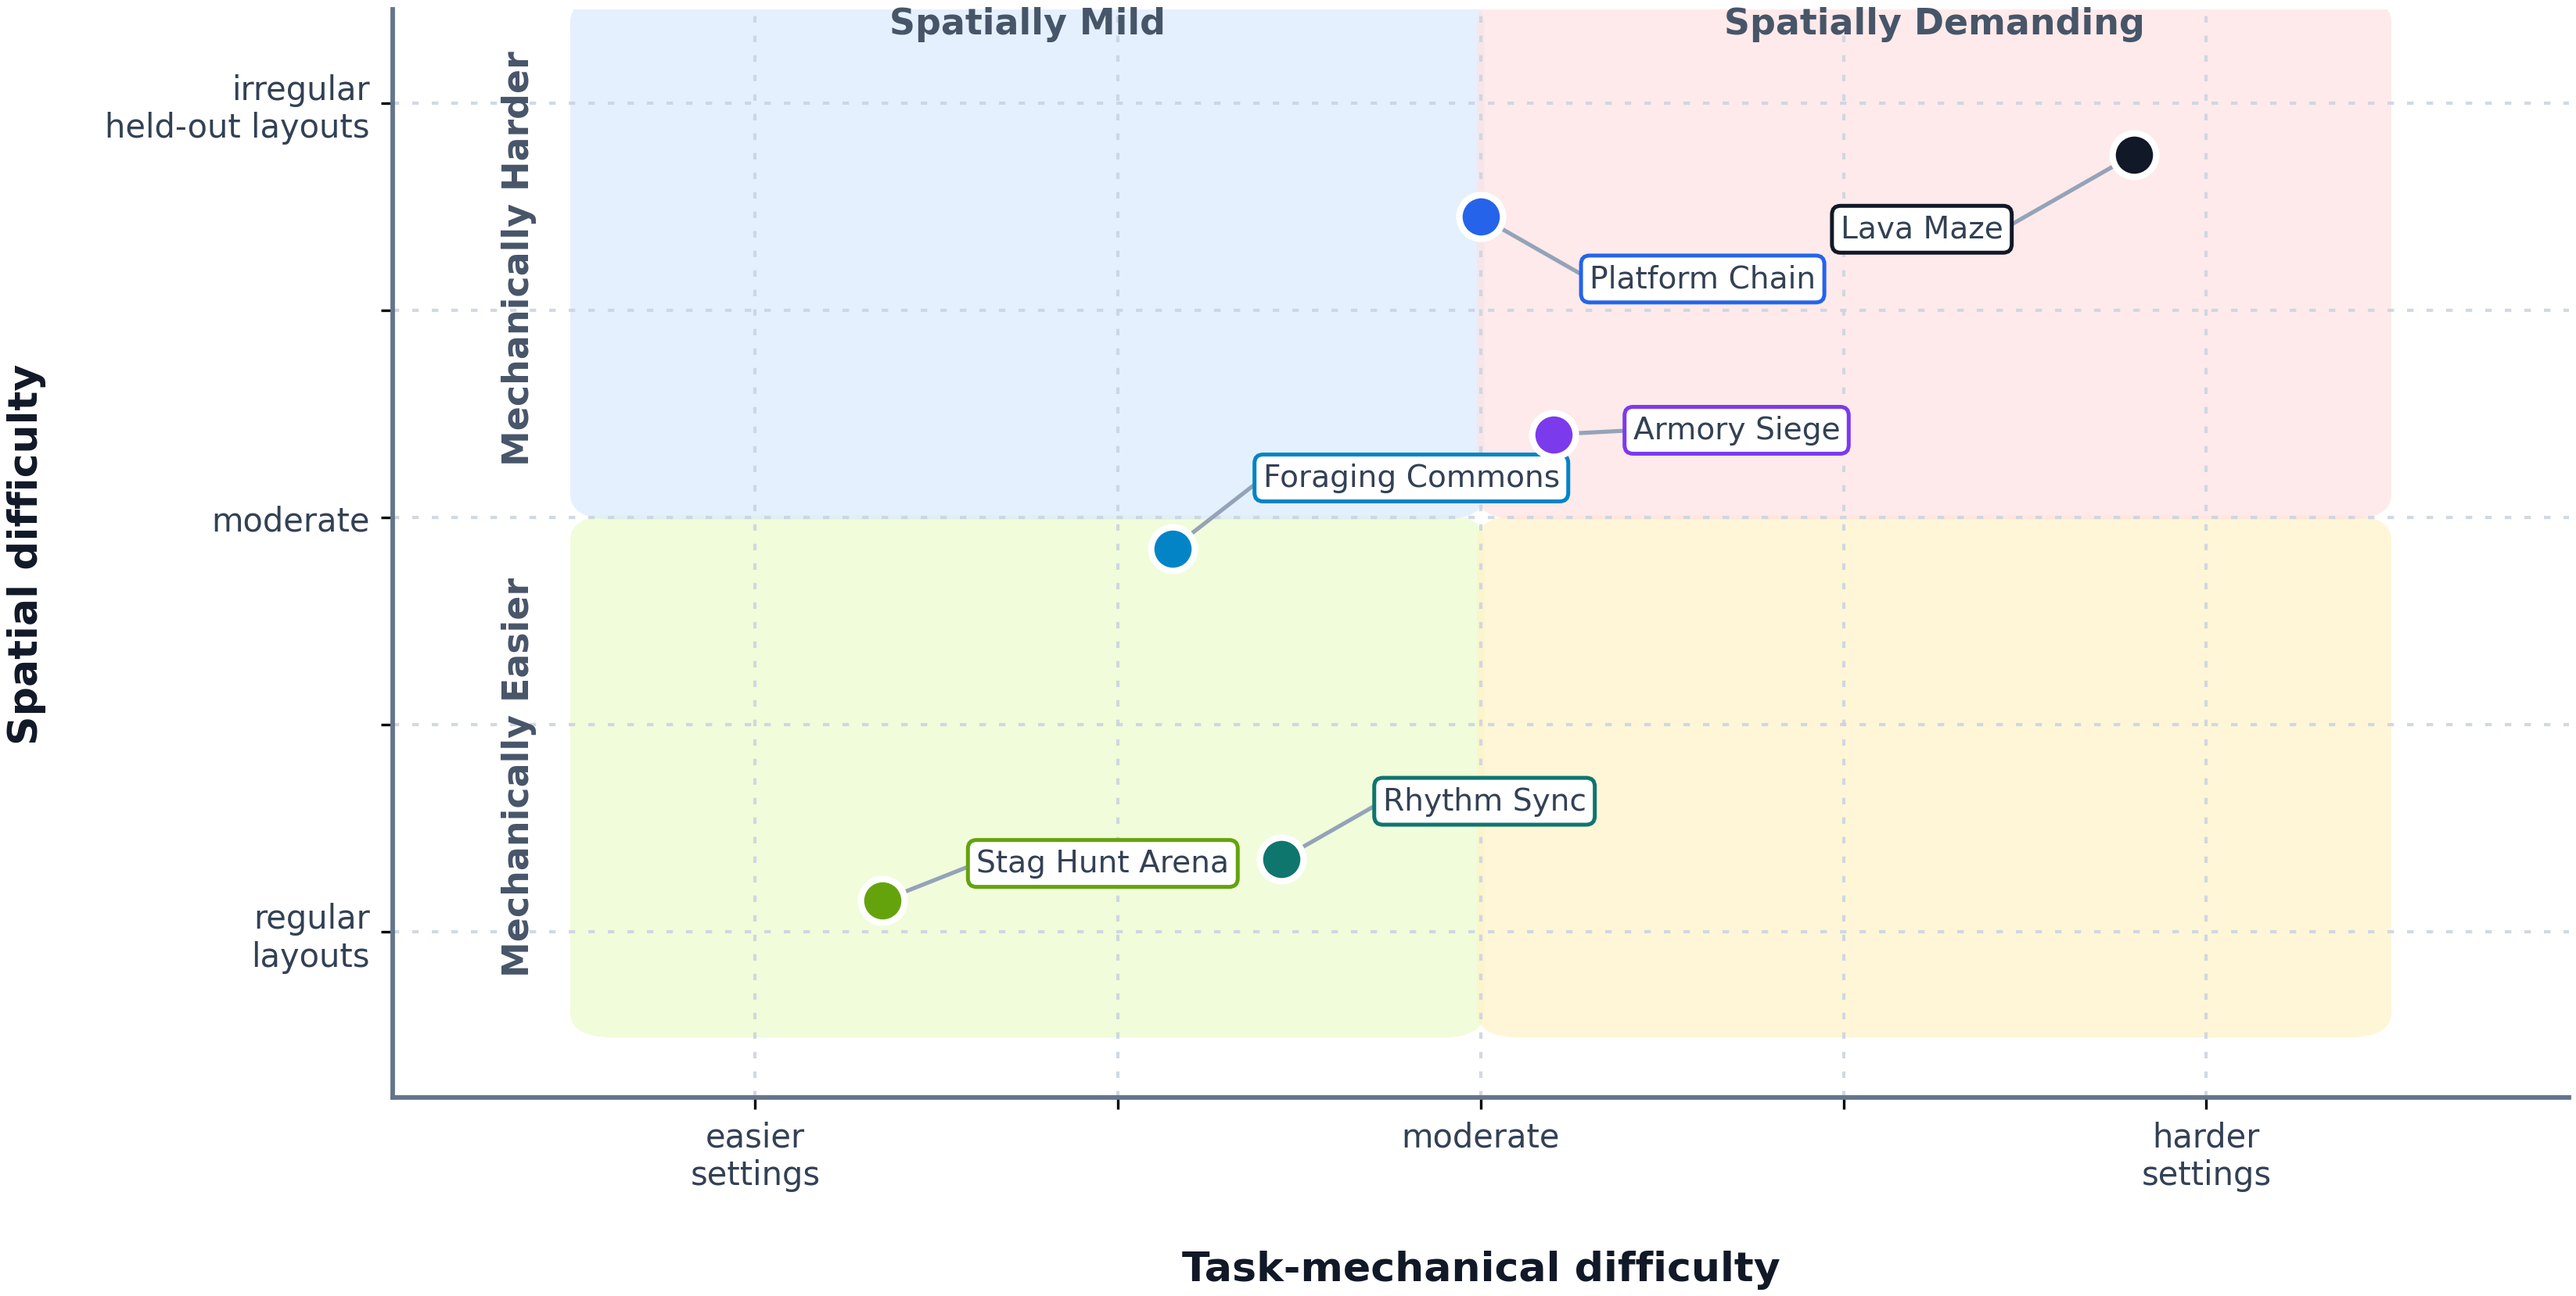
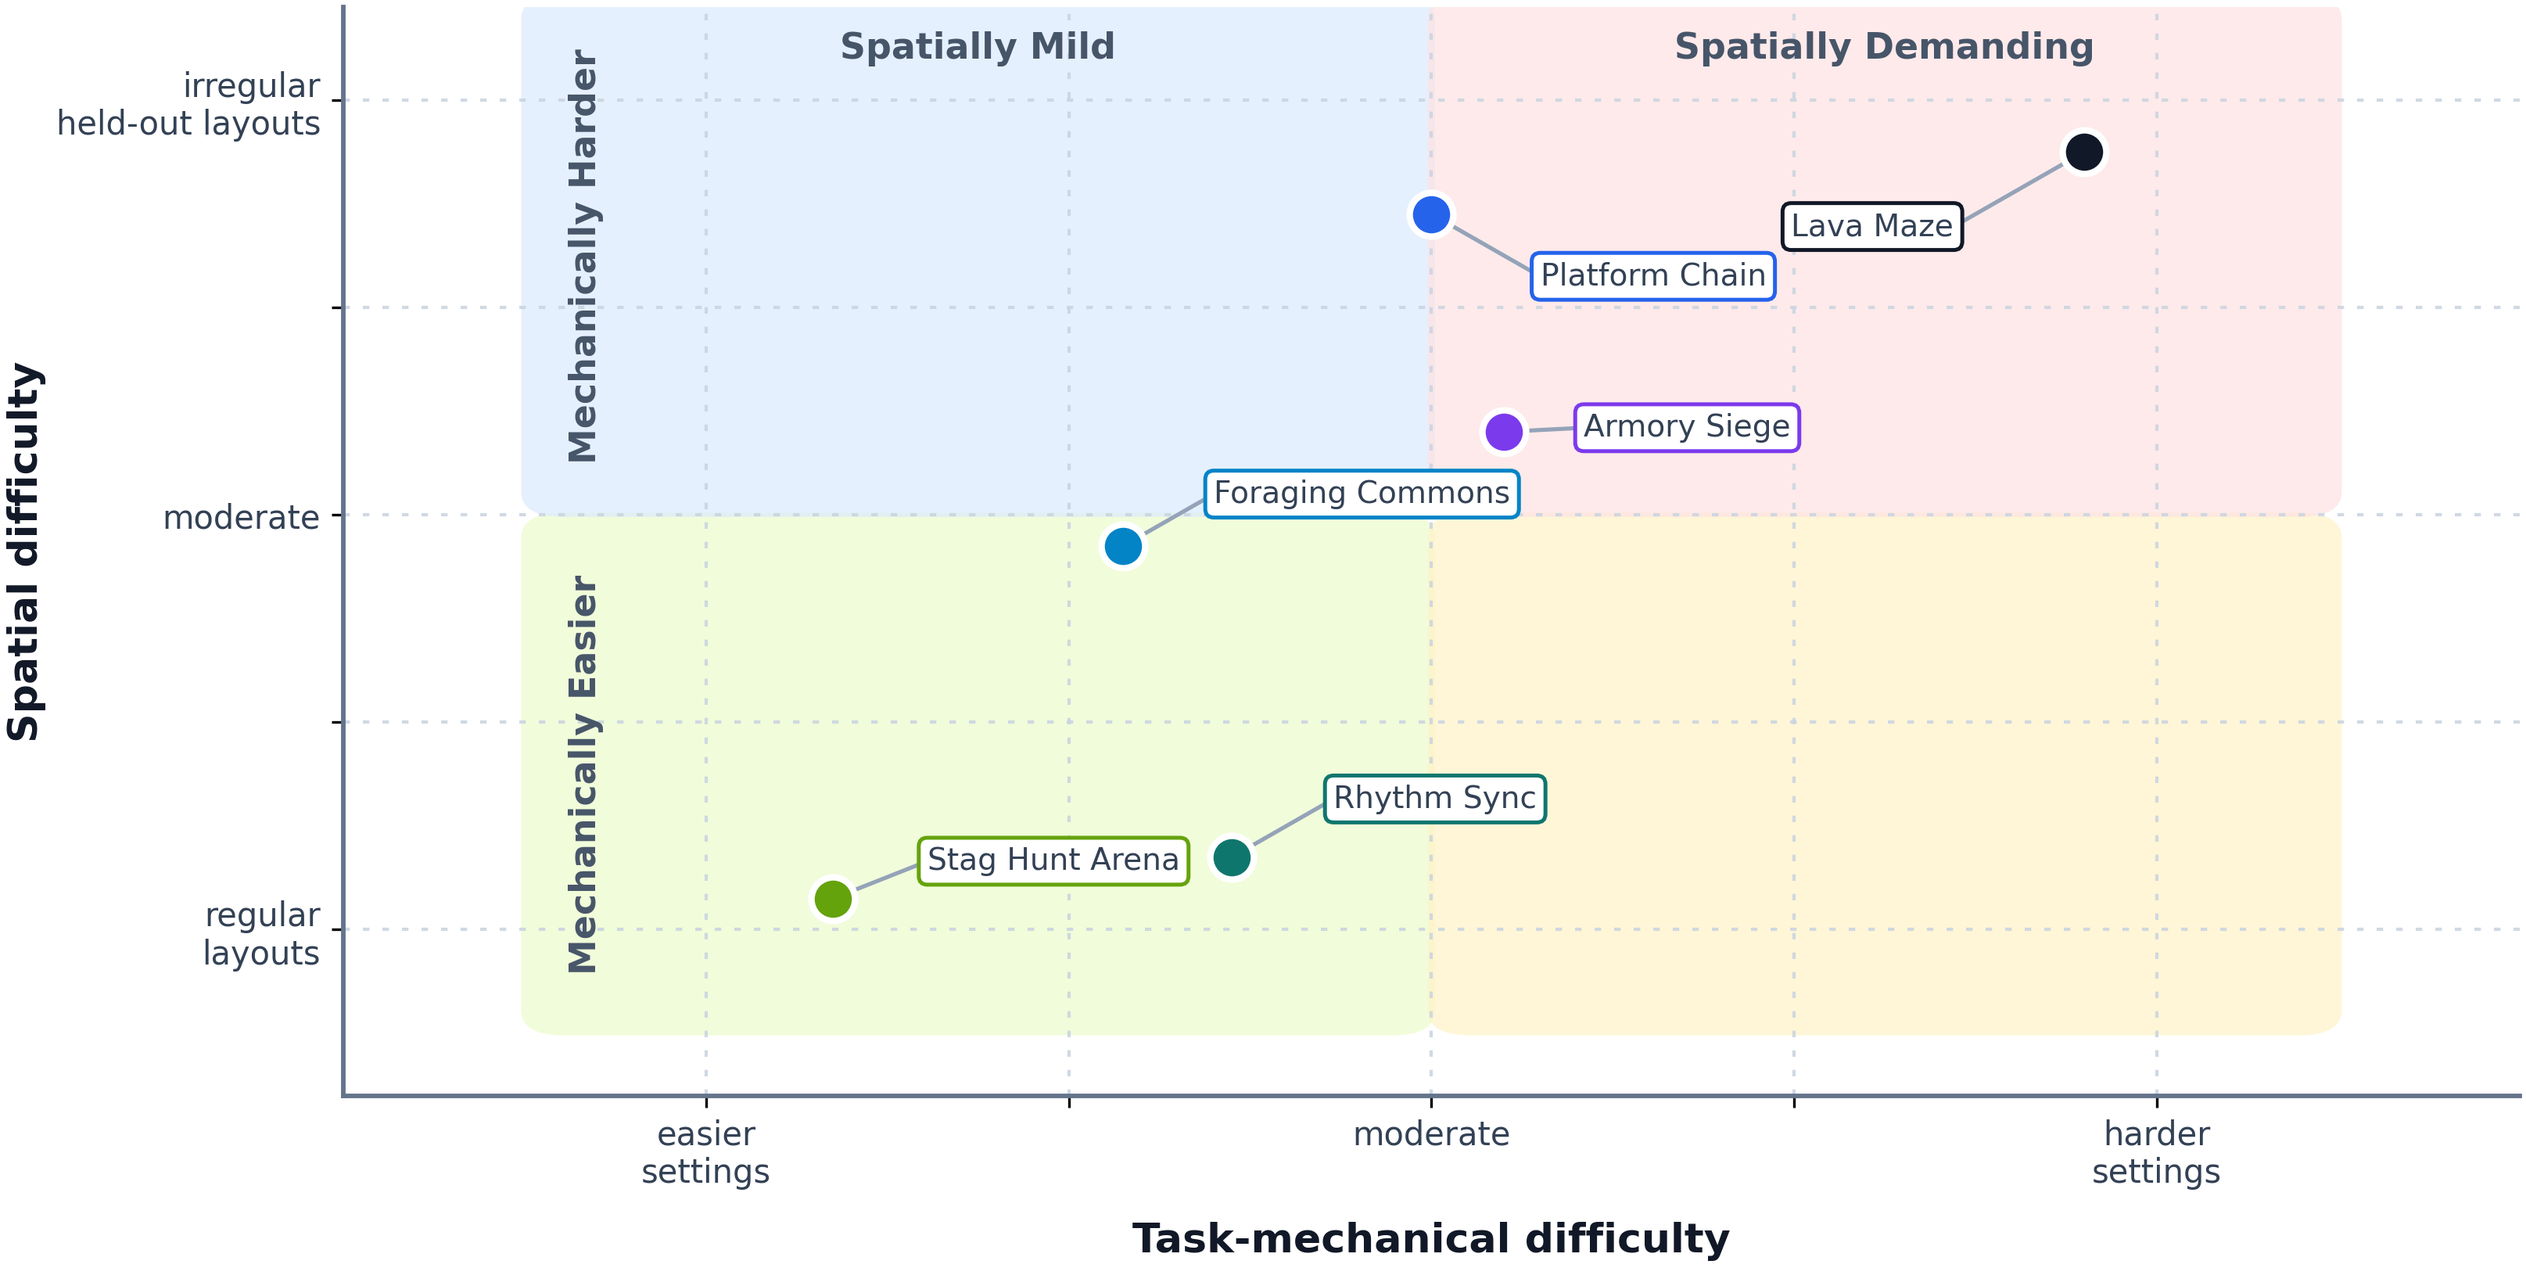
feat: scen overview script and update diff axes

diff --git a/scripts/scenario_overview_figure.py b/scripts/scenario_overview_figure.py
@@ -1,0 +1,127 @@
+from __future__ import annotations
+
+from pathlib import Path
+
+from PIL import Image, ImageDraw, ImageFont
+
+
+REPO_ROOT = Path(__file__).resolve().parents[1]
+SOURCE_DIR = REPO_ROOT / "paper" / "figure" / "scenarios"
+OUTPUT_PATH = REPO_ROOT / "results" / "scenario_overview.png"
+SYMLINK_PATH = REPO_ROOT / "paper" / "figure" / "scenario_overview.png"
+
+SCENARIOS = [
+    ("1.png", "Stag Hunt Arena"),
+    ("2.png", "Rhythm Sync"),
+    ("3.png", "Foraging Commons"),
+    ("4.png", "Co-op Puzzle"),
+    ("5.png", "Platform Chain"),
+    ("6.png", "Armory Siege"),
+    ("7.png", "Co-op Health Gathering"),
+    ("8.png", "Lava Pit"),
+    ("9.png", "Smart/Dumb Enemies"),
+    ("10.png", "Stealth Labyrinth"),
+    ("11.png", "Ammo Carrier"),
+    ("12.png", "Lava Maze"),
+]
+
+LETTERS = "abcdefghijklmnopqrstuvwxyz"
+
+
+def ensure_parent(path: Path) -> None:
+    path.parent.mkdir(parents=True, exist_ok=True)
+
+
+def load_font(size: int) -> ImageFont.ImageFont:
+    candidates = [
+        "/System/Library/Fonts/Supplemental/Arial Unicode.ttf",
+        "/System/Library/Fonts/Supplemental/Helvetica.ttc",
+        "/System/Library/Fonts/SFNS.ttf",
+        "/Library/Fonts/Arial.ttf",
+    ]
+    for candidate in candidates:
+        try:
+            return ImageFont.truetype(candidate, size=size)
+        except OSError:
+            continue
+    return ImageFont.load_default()
+
+
+def fit_panel(image: Image.Image, size: tuple[int, int]) -> Image.Image:
+    src_w, src_h = image.size
+    dst_w, dst_h = size
+    src_ratio = src_w / src_h
+    dst_ratio = dst_w / dst_h
+
+    if src_ratio > dst_ratio:
+        crop_w = int(src_h * dst_ratio)
+        left = (src_w - crop_w) // 2
+        box = (left, 0, left + crop_w, src_h)
+    else:
+        crop_h = int(src_w / dst_ratio)
+        top = (src_h - crop_h) // 2
+        box = (0, top, src_w, top + crop_h)
+
+    cropped = image.crop(box)
+    return cropped.resize(size, Image.Resampling.LANCZOS)
+
+
+def make_figure() -> None:
+    cols = 4
+    rows = 3
+    panel_size = (680, 382)
+    label_height = 56
+    gutter_x = 28
+    gutter_y = 34
+    outer_pad = 34
+    bg = (255, 255, 255)
+    panel_border = (215, 223, 232)
+    text_color = (17, 24, 39)
+
+    width = outer_pad * 2 + cols * panel_size[0] + (cols - 1) * gutter_x
+    height = outer_pad * 2 + rows * (panel_size[1] + label_height) + (rows - 1) * gutter_y
+    canvas = Image.new("RGB", (width, height), bg)
+    draw = ImageDraw.Draw(canvas)
+
+    label_font = load_font(26)
+
+    for idx, (filename, title) in enumerate(SCENARIOS):
+        image_path = SOURCE_DIR / filename
+        image = Image.open(image_path).convert("RGB")
+        panel = fit_panel(image, panel_size)
+
+        row = idx // cols
+        col = idx % cols
+        x = outer_pad + col * (panel_size[0] + gutter_x)
+        y = outer_pad + row * (panel_size[1] + label_height + gutter_y)
+
+        canvas.paste(panel, (x, y))
+        draw.rectangle((x, y, x + panel_size[0], y + panel_size[1]), outline=panel_border, width=2)
+
+        label = f"({LETTERS[idx]}) {title}"
+        bbox = draw.textbbox((0, 0), label, font=label_font)
+        text_w = bbox[2] - bbox[0]
+        text_x = x + (panel_size[0] - text_w) / 2
+        text_y = y + panel_size[1] + 12
+        draw.text((text_x, text_y), label, fill=text_color, font=label_font)
+
+    ensure_parent(OUTPUT_PATH)
+    canvas.save(OUTPUT_PATH, quality=95)
+
+
+def update_symlink() -> None:
+    ensure_parent(SYMLINK_PATH)
+    if SYMLINK_PATH.exists() or SYMLINK_PATH.is_symlink():
+        SYMLINK_PATH.unlink()
+    SYMLINK_PATH.symlink_to(Path("../../results/scenario_overview.png"))
+
+
+def main() -> None:
+    make_figure()
+    update_symlink()
+    print(f"Wrote {OUTPUT_PATH}")
+    print(f"Linked {SYMLINK_PATH} -> ../../results/scenario_overview.png")
+
+
+if __name__ == "__main__":
+    main()

diff --git a/scripts/difficulty_axes_figure.py b/scripts/difficulty_axes_figure.py
@@ -36,7 +36,7 @@ SCENARIOS = [
         "y": 2.85,
         "color": "#0284c7",
         "label_dx": 0.25,
-        "label_dy": 0.34,
+        "label_dy": 0.25,
         "ha": "left",
     },
     {
@@ -97,13 +97,13 @@ def add_axis_background(ax: plt.Axes) -> None:
 
 def add_quadrant_labels(ax: plt.Axes) -> None:
     labels = [
-        (1.75, 5.38, "Spatially Mild"),
-        (4.25, 5.38, "Spatially Demanding"),
-        (0.35, 1.75, "Mechanically Easier"),
-        (0.35, 4.25, "Mechanically Harder"),
+        (1.75, 5.25, "Spatially Mild"),
+        (4.25, 5.25, "Spatially Demanding"),
+        (0.67, 1.75, "Mechanically Easier"),
+        (0.67, 4.25, "Mechanically Harder"),
     ]
     for x, y, text in labels:
-        rotation = 90 if x < 0.5 else 0
+        rotation = 90 if x < 1.0 else 0
         ax.text(
             x,
             y,
@@ -181,8 +181,8 @@ def make_figure() -> None:
     ax.spines["left"].set_linewidth(1.4)
     ax.spines["bottom"].set_linewidth(1.4)
 
-    ax.set_xlabel("Task-mechanical difficulty", fontsize=12.5, weight="bold", color="#111827", labelpad=18)
-    ax.set_ylabel("Spatial difficulty", fontsize=12.5, weight="bold", color="#111827", labelpad=18)
+    ax.set_xlabel("Task-mechanical difficulty", fontsize=12.5, weight="bold", color="#111827", labelpad=10)
+    ax.set_ylabel("Spatial difficulty", fontsize=12.5, weight="bold", color="#111827", labelpad=3)
 
     add_quadrant_labels(ax)
     add_scenarios(ax)
